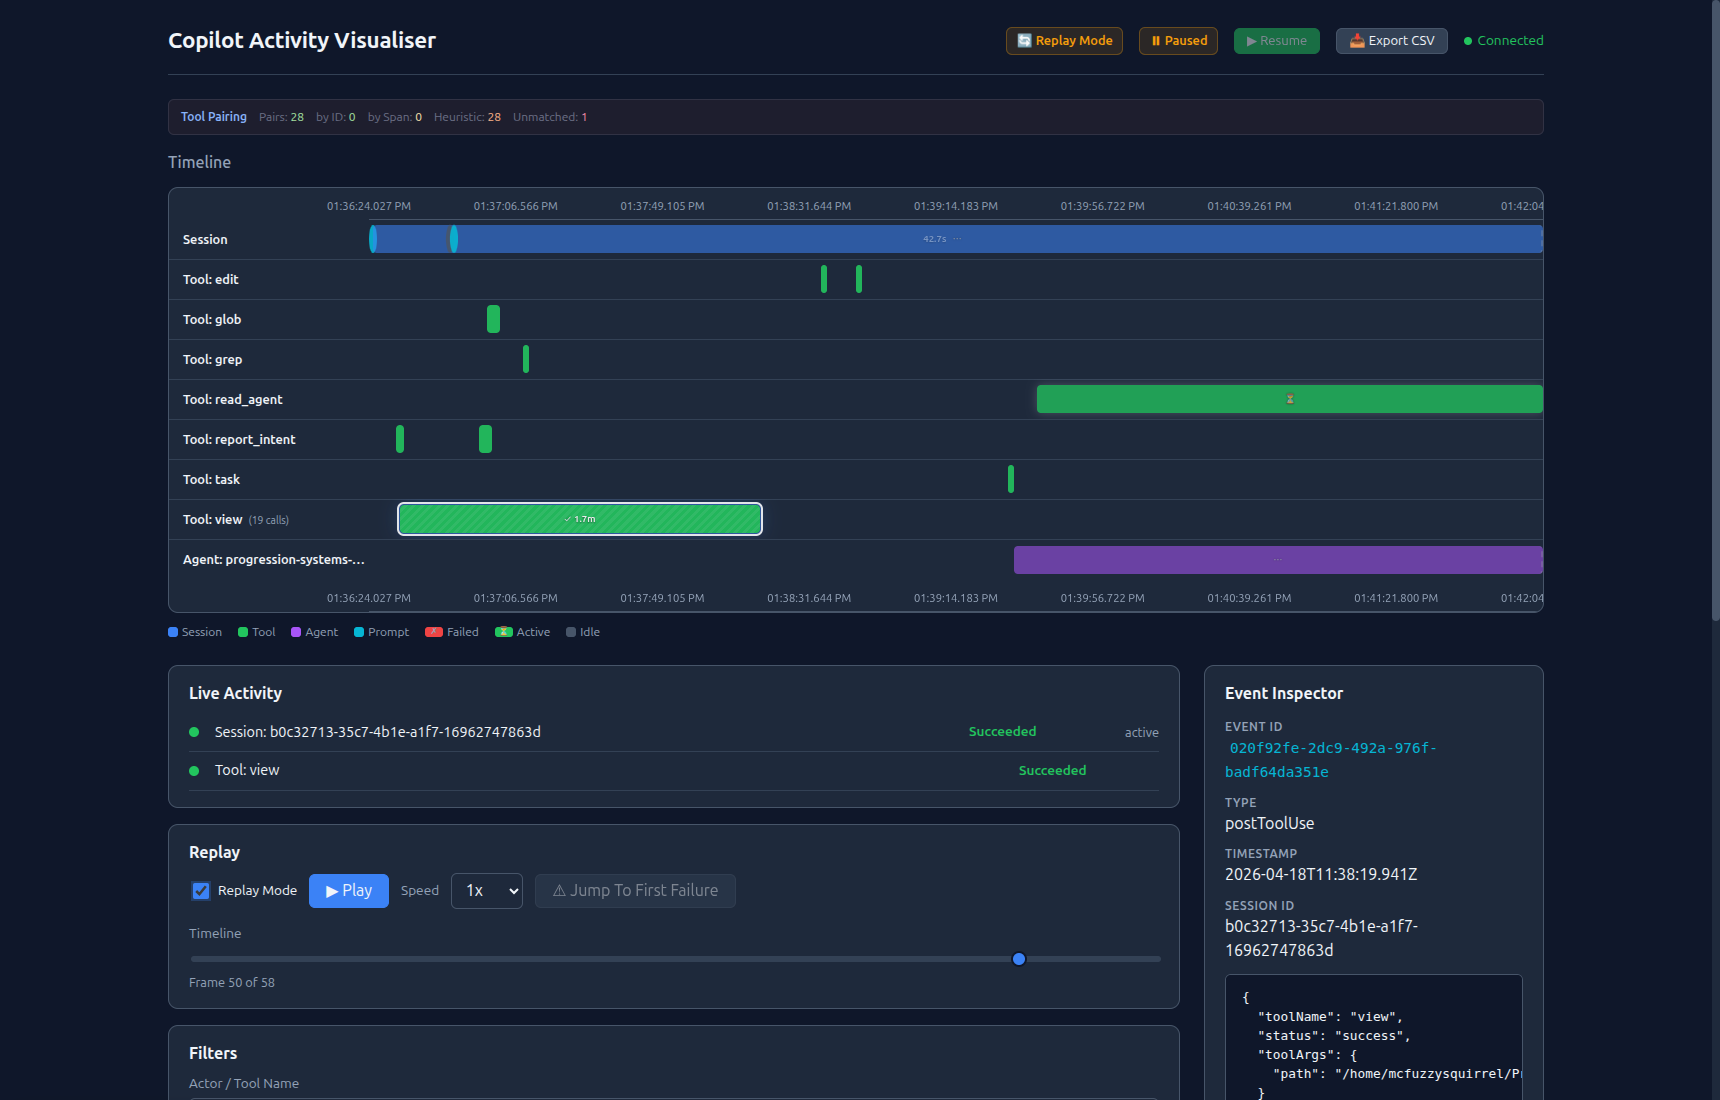
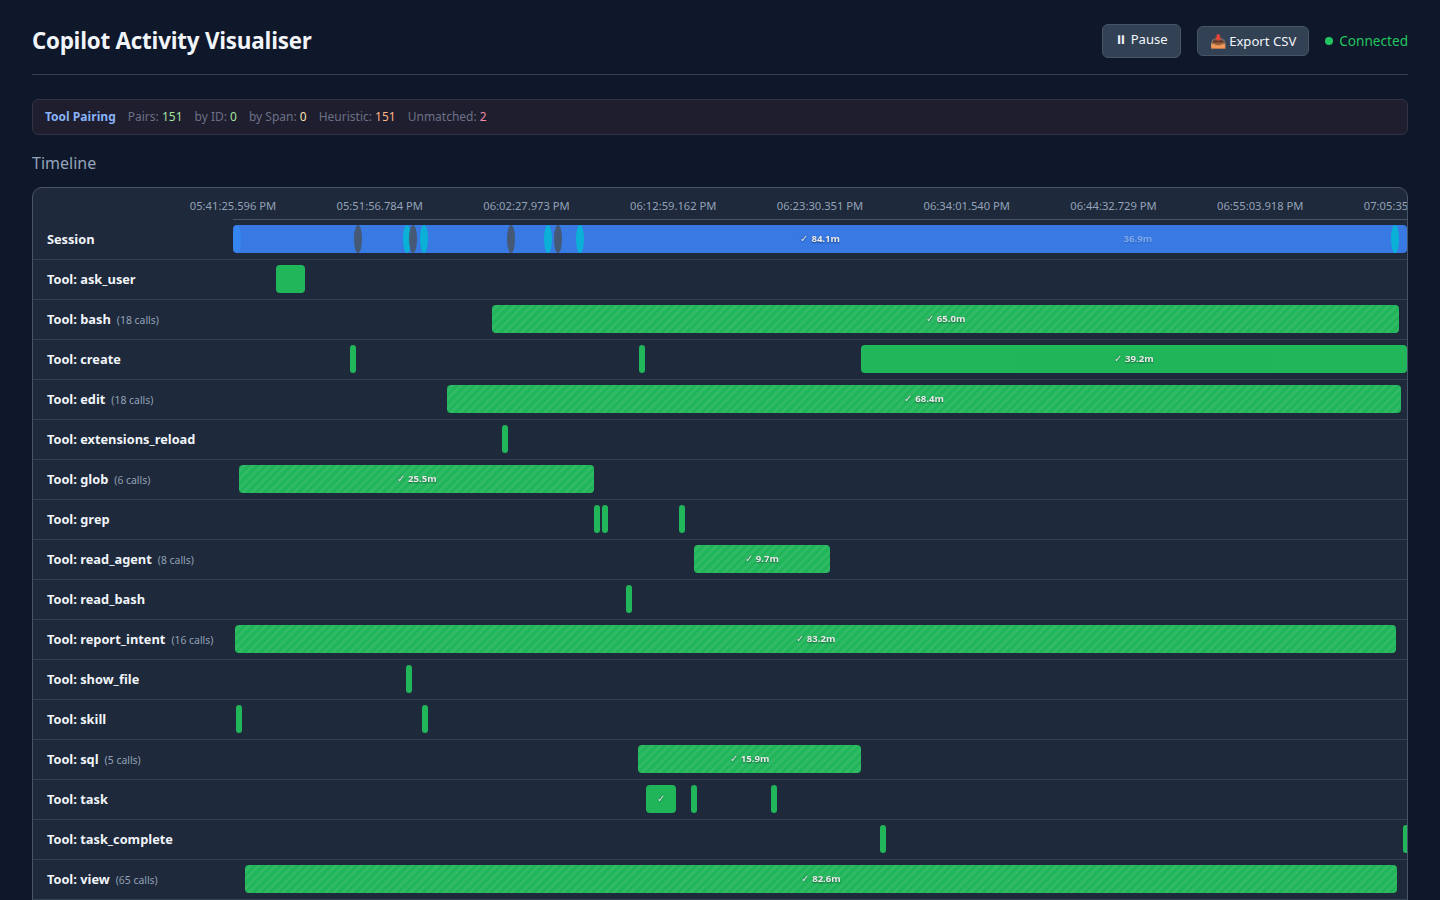
feat: add Playwright screenshot capture script and update UI screenshots
- Added scripts/capture-screenshots.ts — 8 Playwright tests capturing
  overview, live board, Gantt, inspector, filters, replay, export, and
  pairing diagnostics screenshots
- Added playwright.config.ts for Chromium-based screenshot runs
- Updated all UI screenshots with real 319-event session data
- Added new ui-gantt-parallel-tools.png for concurrent tool visualization
- Added test-results/ to .gitignore

Re-capture anytime:
  npm run serve:ingest &
  npm run dev --workspace=packages/web-ui &
  npx playwright test scripts/capture-screenshots.ts

diff --git a/scripts/capture-screenshots.ts b/scripts/capture-screenshots.ts
@@ -1,0 +1,172 @@
+/**
+ * Playwright screenshot capture for the Copilot Activity Visualiser.
+ *
+ * Usage:
+ *   npx playwright test scripts/capture-screenshots.ts
+ *
+ * Prerequisites:
+ *   - Ingest service running on http://127.0.0.1:7070
+ *   - Web UI running on http://127.0.0.1:5173
+ *   - A session actively sending events (or already completed)
+ */
+
+import { test, expect } from '@playwright/test';
+import { join, dirname } from 'path';
+import { fileURLToPath } from 'url';
+
+const __filename = fileURLToPath(import.meta.url);
+const __dirname = dirname(__filename);
+
+const BASE_URL = 'http://127.0.0.1:5173';
+const SCREENSHOT_DIR = join(__dirname, '..', 'docs', 'tutorials', 'assets', 'tutorial-screenshots', 'ui-features');
+
+test.describe('Visualiser Screenshot Capture', () => {
+  test.beforeEach(async ({ page }) => {
+    await page.goto(BASE_URL);
+    // Wait for the app to render
+    await page.waitForSelector('[class*="app"], [id="root"], body', { timeout: 10_000 });
+    // Give SSE time to deliver state
+    await page.waitForTimeout(2000);
+  });
+
+  test('full UI overview', async ({ page }) => {
+    await page.setViewportSize({ width: 1440, height: 900 });
+    await page.waitForTimeout(1000);
+    await page.screenshot({
+      path: join(SCREENSHOT_DIR, 'ui-overview.png'),
+      fullPage: false,
+    });
+  });
+
+  test('live activity board', async ({ page }) => {
+    await page.setViewportSize({ width: 1440, height: 900 });
+    await page.waitForTimeout(1000);
+
+    // Try to capture the lane/status area
+    const lanes = page.locator('[class*="lane"], [class*="status"], [class*="board"]').first();
+    if (await lanes.isVisible()) {
+      await lanes.screenshot({
+        path: join(SCREENSHOT_DIR, 'ui-live-activity-board.png'),
+      });
+    } else {
+      await page.screenshot({
+        path: join(SCREENSHOT_DIR, 'ui-live-activity-board.png'),
+        fullPage: false,
+      });
+    }
+  });
+
+  test('gantt chart with parallel tools', async ({ page }) => {
+    await page.setViewportSize({ width: 1440, height: 900 });
+    await page.waitForTimeout(1000);
+
+    const gantt = page.locator('[class*="gantt"], [class*="Gantt"], [class*="timeline"]').first();
+    if (await gantt.isVisible()) {
+      await gantt.screenshot({
+        path: join(SCREENSHOT_DIR, 'ui-gantt-parallel-tools.png'),
+      });
+    } else {
+      await page.screenshot({
+        path: join(SCREENSHOT_DIR, 'ui-gantt-parallel-tools.png'),
+        fullPage: false,
+      });
+    }
+  });
+
+  test('event inspector with tracing', async ({ page }) => {
+    await page.setViewportSize({ width: 1440, height: 900 });
+    await page.waitForTimeout(1000);
+
+    // Click the first event in the list to open inspector
+    const eventItem = page.locator('[class*="event"], [class*="Event"]').first();
+    if (await eventItem.isVisible()) {
+      await eventItem.click();
+      await page.waitForTimeout(500);
+    }
+
+    const inspector = page.locator('[class*="inspector"], [class*="Inspector"]').first();
+    if (await inspector.isVisible()) {
+      await inspector.screenshot({
+        path: join(SCREENSHOT_DIR, 'ui-event-inspector-tracing.png'),
+      });
+    } else {
+      await page.screenshot({
+        path: join(SCREENSHOT_DIR, 'ui-event-inspector-tracing.png'),
+        fullPage: false,
+      });
+    }
+  });
+
+  test('filter controls', async ({ page }) => {
+    await page.setViewportSize({ width: 1440, height: 900 });
+    await page.waitForTimeout(1000);
+
+    const filters = page.locator('[class*="filter"], [class*="Filter"]').first();
+    if (await filters.isVisible()) {
+      await filters.screenshot({
+        path: join(SCREENSHOT_DIR, 'ui-filter-controls.png'),
+      });
+    } else {
+      await page.screenshot({
+        path: join(SCREENSHOT_DIR, 'ui-filter-controls.png'),
+        fullPage: false,
+      });
+    }
+  });
+
+  test('replay mode', async ({ page }) => {
+    await page.setViewportSize({ width: 1440, height: 900 });
+    await page.waitForTimeout(1000);
+
+    // Look for a replay button/toggle
+    const replayBtn = page.locator('button:has-text("Replay"), button:has-text("replay"), [class*="replay"]').first();
+    if (await replayBtn.isVisible()) {
+      await replayBtn.click();
+      await page.waitForTimeout(1000);
+    }
+
+    await page.screenshot({
+      path: join(SCREENSHOT_DIR, 'ui-replay-mode.png'),
+      fullPage: false,
+    });
+  });
+
+  test('reporting and export', async ({ page }) => {
+    await page.setViewportSize({ width: 1440, height: 900 });
+    await page.waitForTimeout(1000);
+
+    // Look for export/CSV button
+    const exportBtn = page.locator('button:has-text("Export"), button:has-text("CSV"), [class*="export"]').first();
+    if (await exportBtn.isVisible()) {
+      await exportBtn.screenshot({
+        path: join(SCREENSHOT_DIR, 'ui-reporting-export-csv.png'),
+      });
+    } else {
+      await page.screenshot({
+        path: join(SCREENSHOT_DIR, 'ui-reporting-export-csv.png'),
+        fullPage: false,
+      });
+    }
+  });
+
+  test('pairing diagnostics tooltip', async ({ page }) => {
+    await page.setViewportSize({ width: 1440, height: 900 });
+    await page.waitForTimeout(1000);
+
+    const pairing = page.locator('[class*="pairing"], [class*="Pairing"], [class*="diagnostic"]').first();
+    if (await pairing.isVisible()) {
+      // Hover to trigger tooltip
+      await pairing.hover();
+      await page.waitForTimeout(500);
+      await page.screenshot({
+        path: join(SCREENSHOT_DIR, 'ui-pairing-tooltip.png'),
+        fullPage: false,
+      });
+    } else {
+      await page.screenshot({
+        path: join(SCREENSHOT_DIR, 'ui-pairing-tooltip.png'),
+        fullPage: false,
+      });
+    }
+  });
+});

diff --git a/playwright.config.ts b/playwright.config.ts
@@ -1,0 +1,18 @@
+import { defineConfig } from '@playwright/test';
+
+export default defineConfig({
+  testDir: './scripts',
+  testMatch: 'capture-screenshots.ts',
+  timeout: 60_000,
+  use: {
+    baseURL: 'http://127.0.0.1:5173',
+    screenshot: 'off',
+    video: 'off',
+  },
+  projects: [
+    {
+      name: 'chromium',
+      use: { browserName: 'chromium' },
+    },
+  ],
+});
